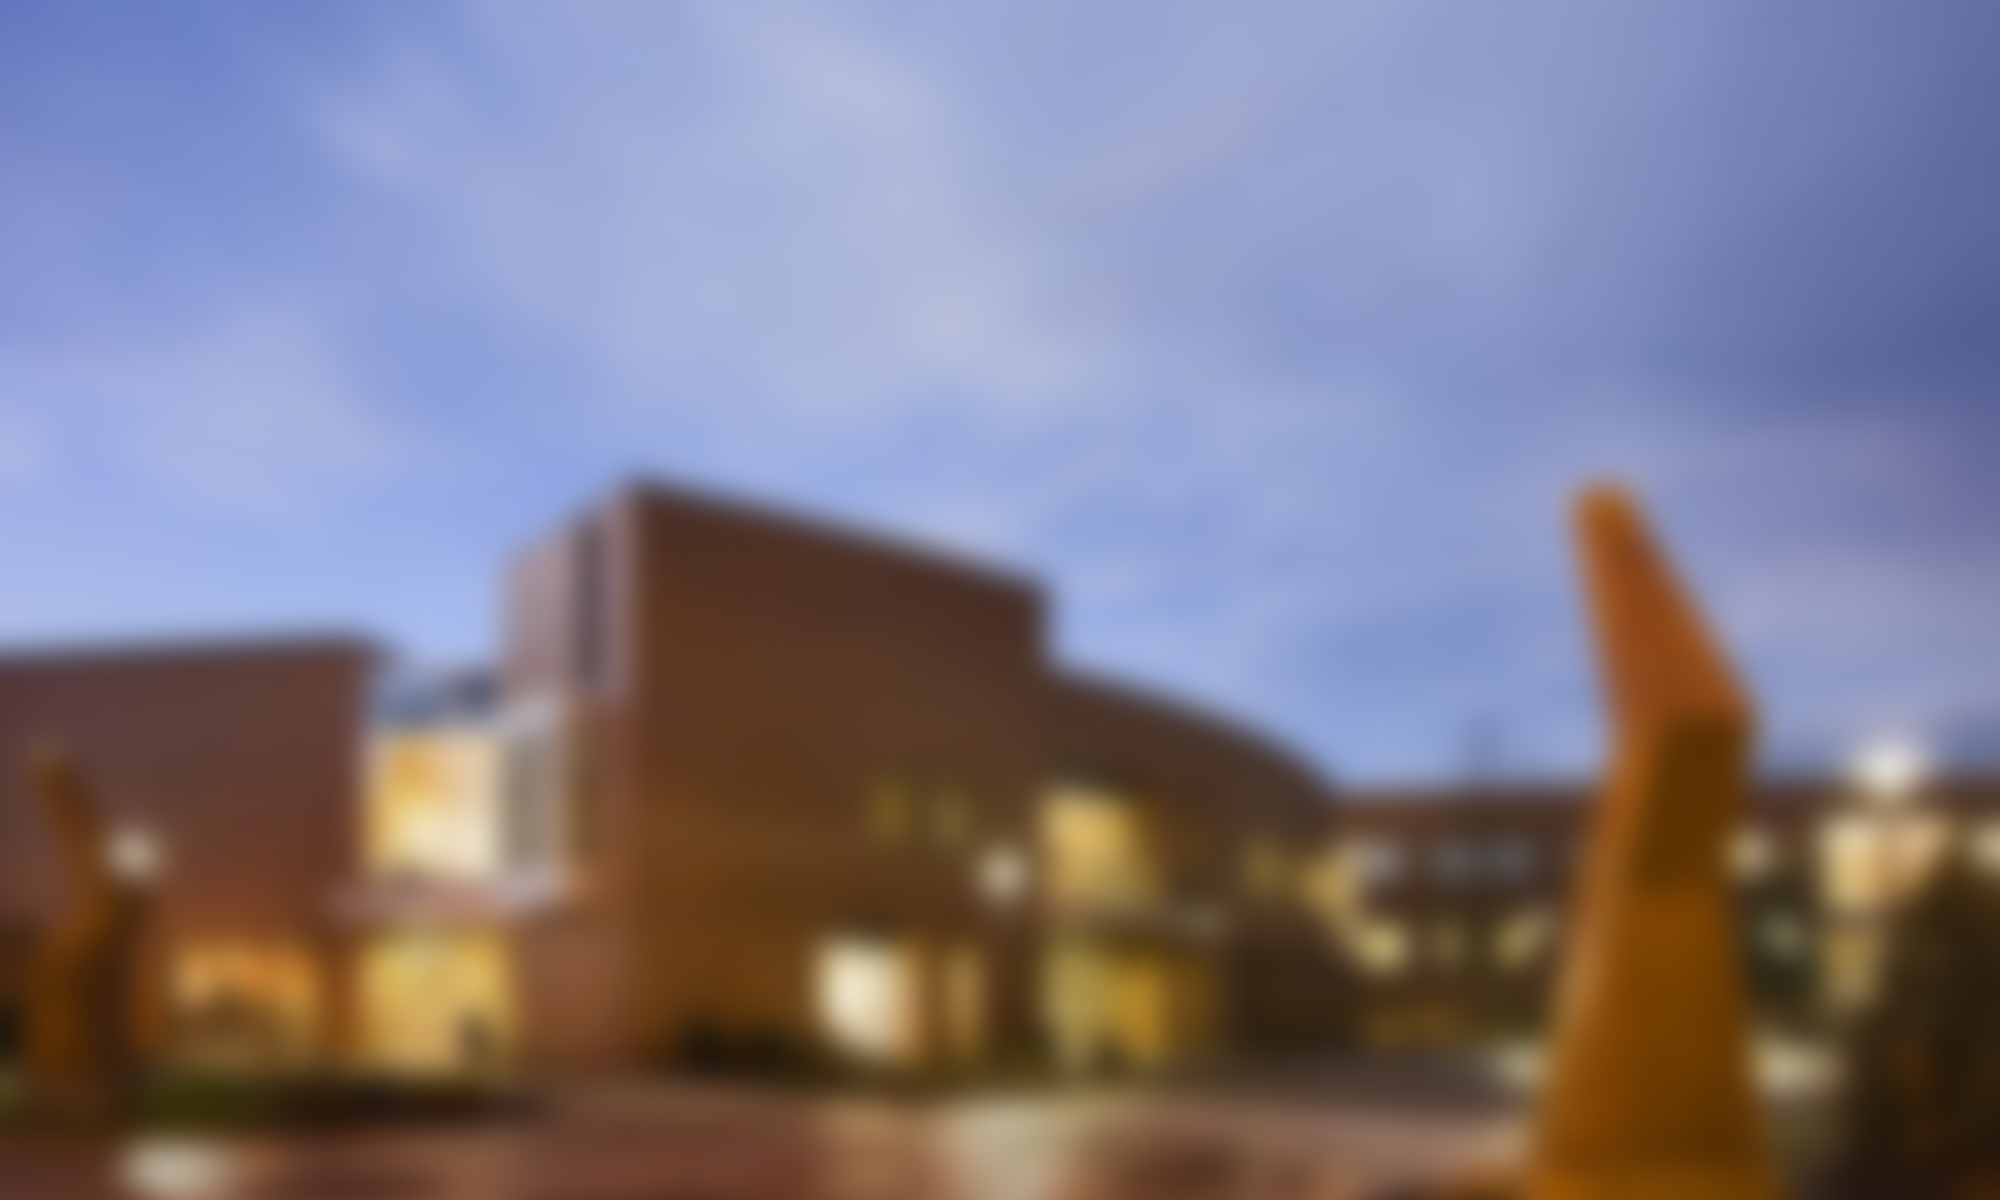
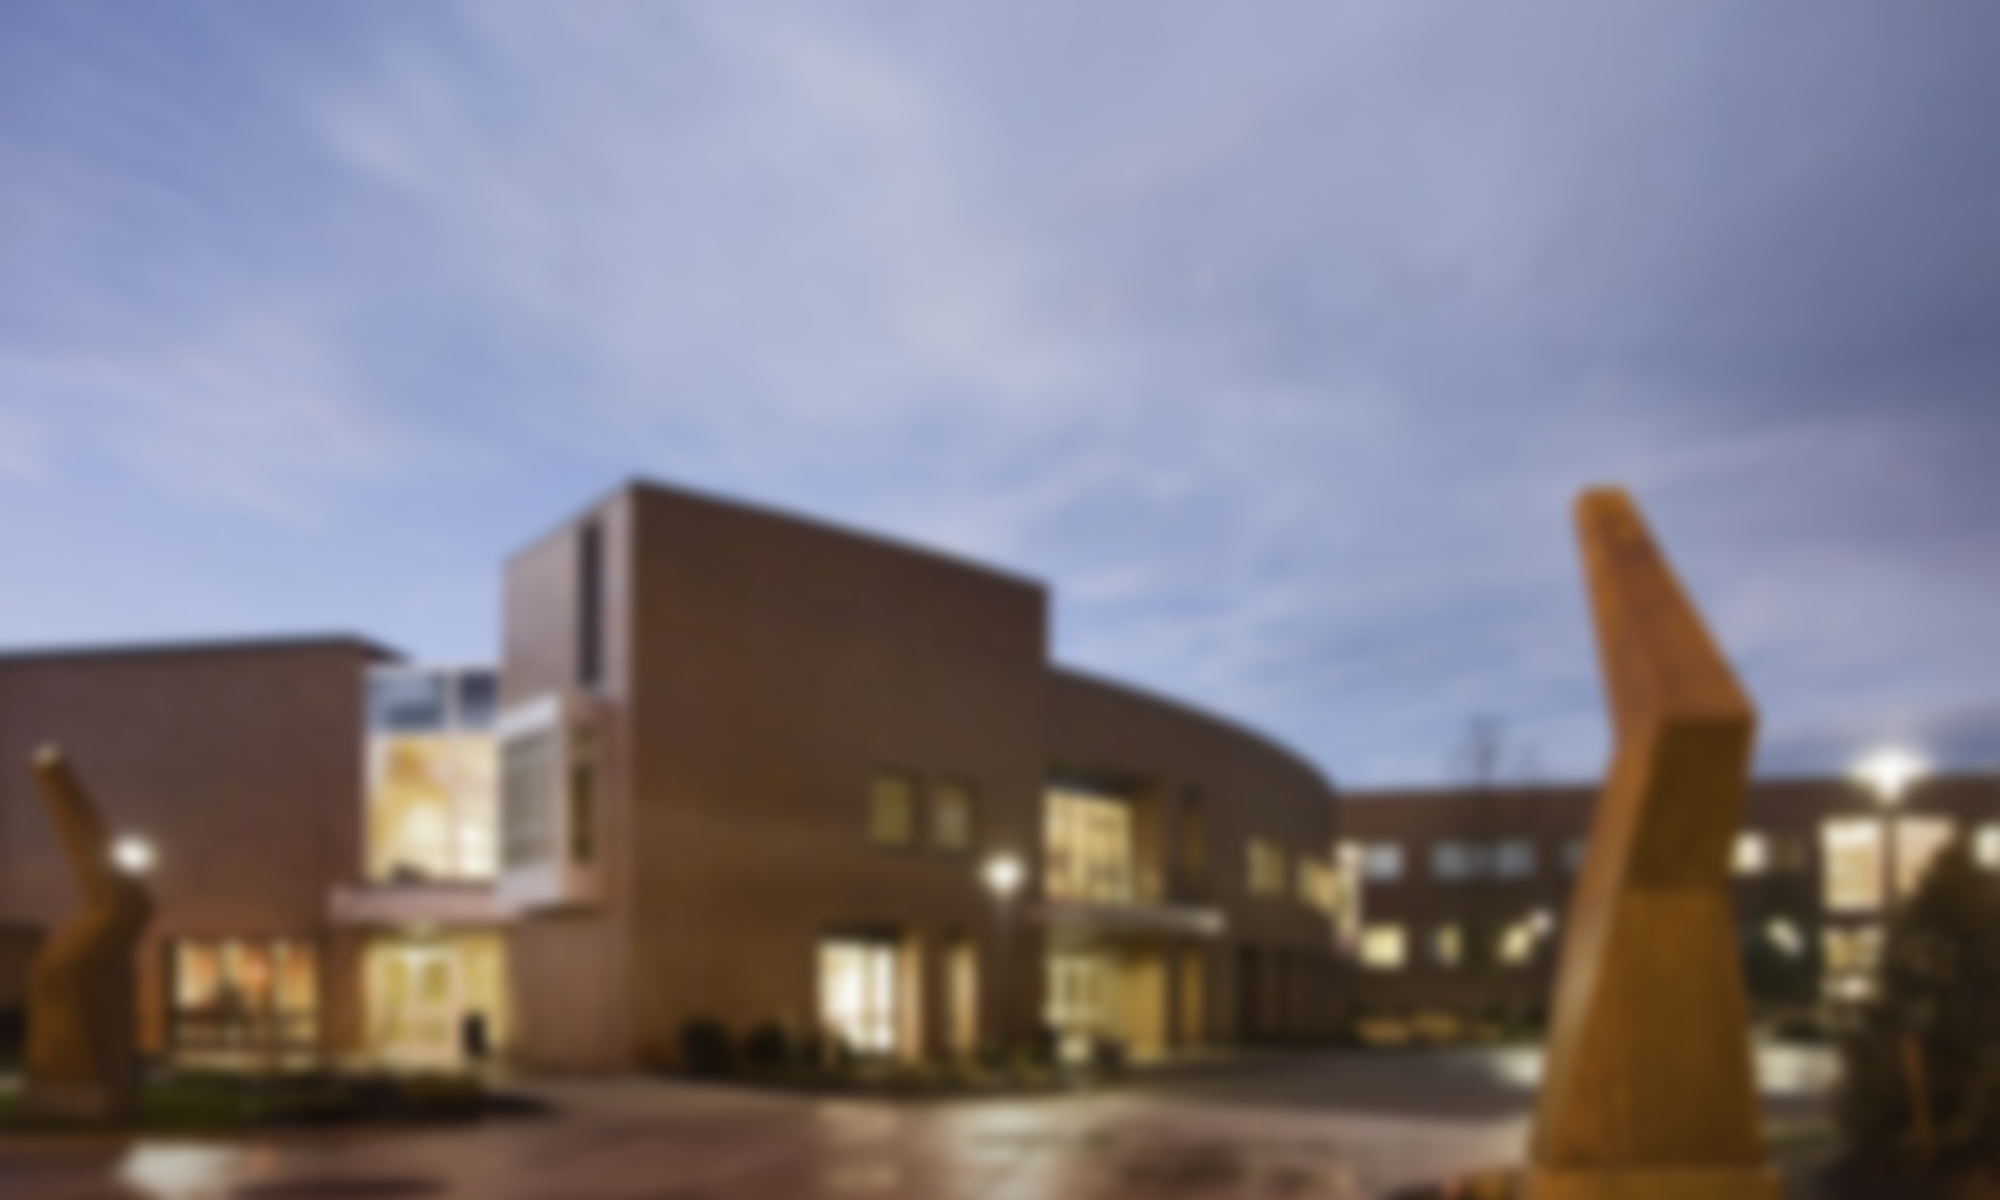
fixed and simplified css in general

diff --git a/css/style.css b/css/style.css
@@ -151,7 +151,6 @@ section{
 	margin: 0 auto; 
   width: 100%; 
   max-width: 1920px;
-  box-shadow: 0 0 50px rgba(0,0,0,0.8);
 }
 
 
@@ -163,7 +162,6 @@ section{
   	width: 100%; 
   	max-width: 1920px; 
   	position: relative; 
-  	box-shadow: 0 0 50px rgba(0,0,0,0.8);
   	opacity: 1!important;
 }
 
@@ -174,7 +172,6 @@ section{
     width: 100%; 
     max-width: 1920px; 
     position: relative; 
-    box-shadow: 0 0 50px rgba(0,0,0,0.8);
 }
 
 #review { 
@@ -185,7 +182,6 @@ section{
   	width: 100%; 
   	max-width: 1920px; 
   	position: relative; 
-  	box-shadow: 0 0 50px rgba(0,0,0,0.8);
   	opacity: 1!important;
 }
 
@@ -196,18 +192,27 @@ section{
   	width: 100%; 
   	max-width: 1920px; 
   	position: relative; 
-  	box-shadow: 0 0 50px rgba(0,0,0,0.8);
 }
 
 /* Introduction of certain parts */
 
 #home article { 
 	background: url("../images/intro.png") no-repeat scroll center top transparent; 
-	height: 458px; 
-	position: absolute; 
-	text-indent: -9999px; 
-	margin-top: 491px; 
 	width: 100%;
+	height: 458px; 
+	position: relative;
+	top: 491px;
+}
+
+#home textarea{
+	width: 200px;
+	height: 20px;
+}
+
+#home .inputComponent{
+	width: 400px;
+	text-align: center;
+	margin: 0 auto;
 }
 
 
@@ -243,11 +248,12 @@ section{
 
 #feedback article { 
 	background: url("../images/feedbackText.png") no-repeat scroll center top transparent; 
-	height: 458px; 
 	position: relative; 
-	text-indent: -9999px; 
-	top: 246px; width: 100%; 
+	top: 246px;
+	width: 100%;
+	height: 200px;
 }
+
 #feedback figure { 
 	height: 48px; 	
 	position: relative; 
@@ -255,6 +261,30 @@ section{
 	top: 58px; 
 	width: 1200px;
 	left: 1100px;
+}
+
+#feedback .inputComponent{
+	position: relative;
+	top: 300px;
+	width: 500px;
+	margin: 0 auto;
+}
+
+#feedback .submitButton{
+	display: block;
+	width: 60px;
+	margin: 10px 10px 0 0;
+}
+
+#feedback textarea{
+	width: 100%;
+	height: 200px;
+	border: 3px solid #cccccc;
+	padding: 5px;
+	font-family: Tahoma, sans-serif;
+	background-image: url(bg.gif);
+	background-repeat: no-repeat;
+	opacity: .40;
 }
 
 #facebook{
@@ -289,86 +319,6 @@ section{
 }
 #socialIcon li:hover {
 	opacity: 0.8;
-}
-
-textarea{
-	position: relative;
-	left: 30%;
-	top: 150px;
-	width: 300px;
-	height: 20px;
-	border: 3px solid #cccccc;
-	padding: 5px;
-	font-family: Tahoma, sans-serif;
-	background-image: url(bg.gif);
-	background-repeat: no-repeat;
-	opacity: .40;
-	resize: none;
-	/* Standard opacity property */
-    filter: progid:DXImageTransform.Microsoft.Alpha(opacity=50); /* IE opacity property */
-    /* reducing the opacity will also make the textarea text become transparent */
-}
-
-textarea:focus {
-  outline: none;
-}
-
-
-.enterTextArea {
-    filter: blur(5px);
-    -webkit-filter: blur(5px);
-    -moz-filter: blur(5px);
-    -o-filter: blur(5px);
-    -ms-filter: blur(5px);
-}
-
-#textarea2{
-	position: relative;
-	left: 18%;
-	top: 100px;
-	width: 500px;
-	height: 200px;
-	border: 3px solid #cccccc;
-	padding: 5px;
-	font-family: Tahoma, sans-serif;
-	background-image: url(bg.gif);
-	background-repeat: no-repeat;
-	opacity: .40; 
-	/* Standard opacity property */
-    filter: progid:DXImageTransform.Microsoft.Alpha(opacity=50); /* IE opacity property */
-    /* reducing the opacity will also make the textarea text become transparent */
-}
-
-
-textarea:focus{
-background-color: lightyellow;
-}
-
-.submit_button{
-	float: left;
-	position: relative;
-	left: 64%;
-	top:150px;
-	color: red;
-	font-size: 18px;
-	background-color: white;
-	color: gray;
-	opacity: .10; 
-	padding: 6px 10px 4px 10px;
-	border-radius: 6px;
-	cursor: pointer;
-
-}
-
-.submit_button:hover{
-	background-color: #fea072;
-	opacity: 1;
-	color: white;
-	position: relative;;
-}
-#submit{
-  position: relative;
-  top: 100px
 }
 
 .panel{
@@ -560,12 +510,12 @@ p{
 .originalBackground, .blurBackground{
 	width: 100%;
 	height: 100%;
-	background-size: auto 150%;
+	background-size: auto 120%;
 	background-repeat: no-repeat;
-  -webkit-transition:opacity 0.2s ease-out;
-  -moz-transition:opacity 0.2s ease-out;
-  -o-transition:opacity 0.2s ease-out;
-  transition:opacity 0.2s ease-out;
+  -webkit-transition:opacity 0.2s;
+  -moz-transition:opacity 0.2s;
+  -o-transition:opacity 0.2s;
+  transition:opacity 0.2s;
 }
 
 .originalBackground{
@@ -578,9 +528,48 @@ p{
 }
 
 #home > .originalBackground{
-	background-image: url('../images/pictureSets/home.png');
+	z-index: -1;
+	background-image: url('../images/pictureSets/home_resized.jpg');
+	background-position-x: center !important;
 }
 
 #home > .originalBackground > .blurBackground{
-	background-image: url('../images/pictureSets/homeBlur.png');
+	background-image: url('../images/pictureSets/home_blur_resized.jpg');
+	background-position-x: center !important;
+}
+
+/**/
+.inputComponent > textarea, .inputComponent > div{
+	display: inline-block;
+	vertical-align: top;
+}
+
+textarea{
+	border: 3px solid #cccccc;
+	padding: 5px;
+	font-family: Tahoma, sans-serif;
+	background-image: url(bg.gif);
+	background-repeat: no-repeat;
+	opacity: .4;
+	resize: none;
+}
+
+textarea:focus {
+  outline: none;
+  background-color: lightyellow;
+}
+
+.submitButton{
+	font-size: 18px;
+	background-color: rgba(255, 255, 255, .1);
+	color: gray;
+	padding: 6px 10px 4px 10px;
+	border-radius: 6px;
+	cursor: pointer;
+	text-align: center;
+}
+
+.submitButton:hover{
+	background-color: #fea072;
+	color: white;
 }

diff --git a/index.html b/index.html
@@ -38,13 +38,14 @@
 
 		<!-- Section #1 Home-->
 		<section id="home">
-      <div class="originalBackground" data-speed="4" data-type="background">
-        <div class="blurBackground" data-speed="4" data-type="background"></div>
+      <div class="originalBackground" data-speed="5" data-type="background">
+        <div class="blurBackground" data-speed="5" data-type="background"></div>
       </div>
       <article></article>
-			<textarea name="styled-textarea" id="styled" onfocus="this.value='';">Enter your RIT email...</textarea>
-			<div class="submit_button" id="join"> Join </div>
-			<div id="circle_menu"></div>
+      <div class="inputComponent">
+			 <textarea placeholder="Enter your RIT email..."></textarea>
+			 <div class="submitButton" id="join">Join</div>
+      </div>
 		</section>
 		
 		<!-- Section #2 Plan-->
@@ -262,9 +263,11 @@
 
 <!-- Section #5 Feedback-->
     <section id="feedback" data-speed="14" data-type="background">
-        <article></article>
-          <textarea id="textarea2" name="styled-textarea" id="styled" onfocus="this.value='';" >Do you want to talk？</textarea>
-      <div class="submit_button" id="submit"> Submit </div>
+      <article></article>
+      <div class="inputComponent">
+        <textarea placeholder="Do you want to talk?" ></textarea>
+        <div class="submitButton" id="submit"> Submit </div>
+      </div>
       <div id="circle_menu"></div>
       <ul id="socialIcon">
         <li id="facebook"></li>
